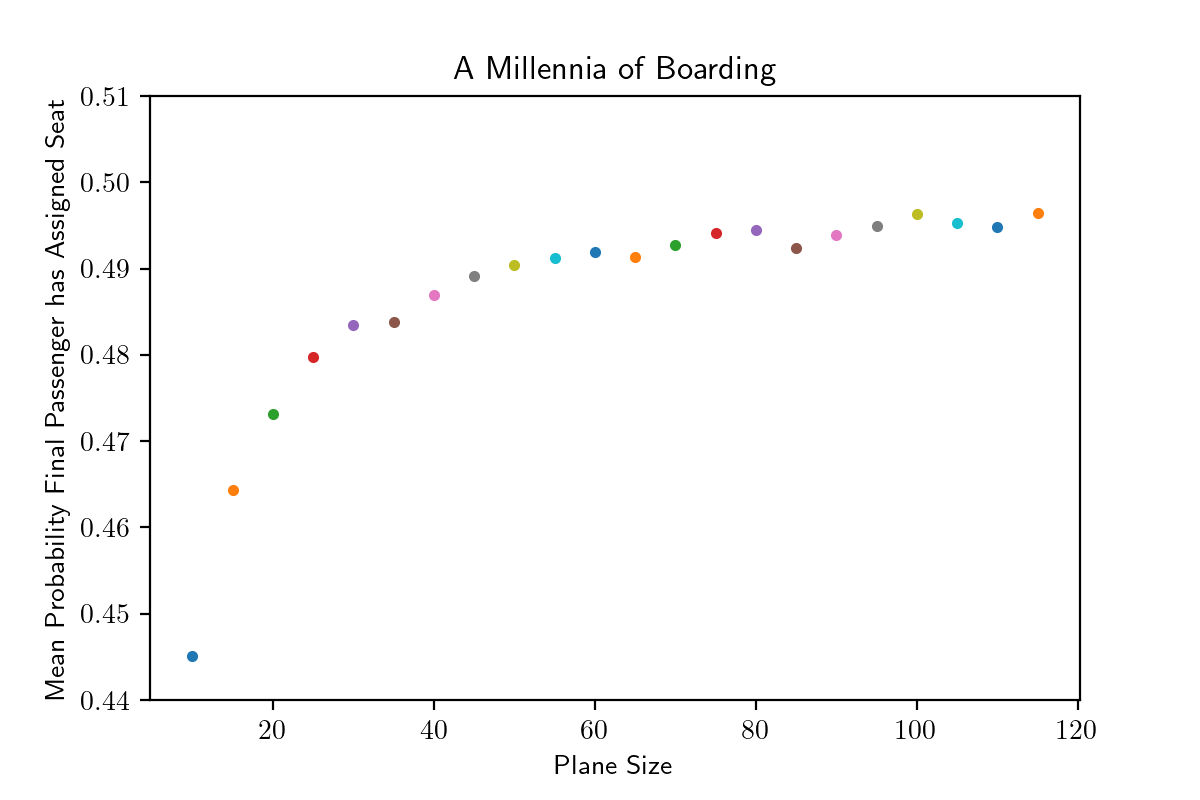
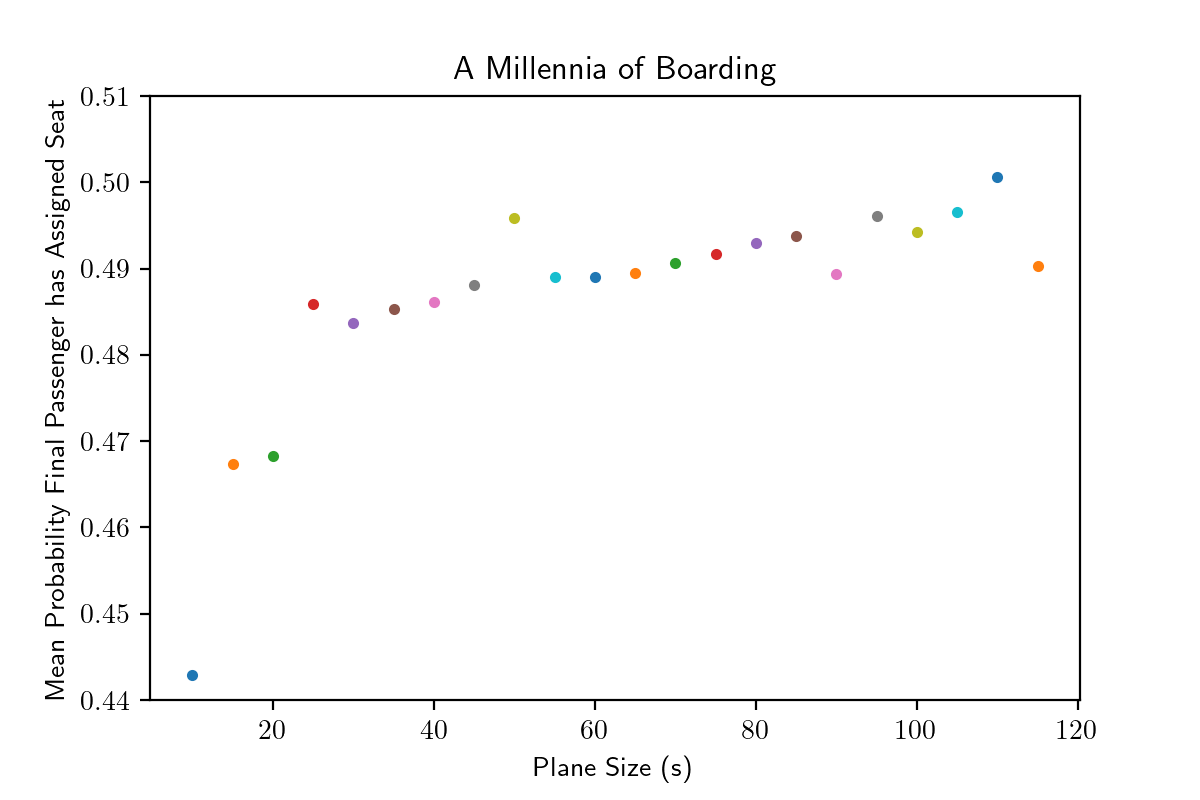
analysis

diff --git a/_posts/2020-04-03-bessel-function-animation.md b/_posts/2020-04-03-bessel-function-animation.md
@@ -4,14 +4,59 @@ title: "Bessel Function Animation"
 categories: misc
 ---
 
+Bessel’s differential equation is given by:
 
-$$\LaTeX code$$ 
+<img src="https://latex.codecogs.com/svg.latex?x^2&space;\frac{d^2y}{dx^2}&space;&plus;&space;x&space;\frac{dy}{dx}&space;&plus;&space;(x^2&space;-&space;n^2)y&space;=&space;0" title="x^2 \frac{d^2y}{dx^2} + x \frac{dy}{dx} + (x^2 - n^2)y = 0" />
 
-$$
-{-\infty}^{\infty}
-$$
+It is a 2-dimensional wave equation, having many applications in physics including the notable examples: 
 
+- describing electromagnetic waves in a cylindrical wave-guide
+- solving the radial Schrodinger Equation for a free particle
+- modes of vibration on a circular drum. 
+
+For integer <img src="https://latex.codecogs.com/svg.latex?\inline&space;n" title="n" /> it has the series solution:
+
+<img src="https://latex.codecogs.com/svg.latex?J_n(x)&space;=&space;\sum_{l=0}^{N}&space;\frac{(-1)^l}{2^{2l&plus;n}&space;l!&space;(n&plus;l)!}&space;x^{2l&plus;n}" title="J_n(x) = \sum_{l=0}^{N} \frac{(-1)^l}{2^{2l+n} l! (n+l)!} x^{2l+n}" />
+
+as <img src="https://latex.codecogs.com/svg.latex?\inline&space;N&space;\rightarrow&space;\infty" title="N \rightarrow \infty" />
+
+We can use python to approximate <img src="https://latex.codecogs.com/svg.latex?\inline&space;J_n(x)" title="J_n(x)" /> using increasingly large <img src="https://latex.codecogs.com/svg.latex?\inline&space;N" title="N" />. 
+
+The function could look something like this;
+
+```python
+def bessj(n, x, N):
+    partial_sum = 0
+    
+    from math import factorial 
+    for l in range(N+1):
+        partial_sum += (-1)**l/(2**(2*l+n)*factorial(l)*factorial(n+l))*x**(2*l+n)
+    
+    return partial_sum
+``` 
+
+We could then plot the bessel function approximation for larger values of <img src="https://latex.codecogs.com/svg.latex?\inline&space;N" title="N" />. We'll also plot <img src="https://latex.codecogs.com/svg.latex?\inline&space;J_1(x),&space;J_2(x),&space;J_3(x),&space;J_4(x),&space;J_5(x),&space;J_6(x)" title="J_1(x), J_2(x), J_3(x), J_4(x), J_5(x), J_6(x)" />.
+
+```python
+import numpy as np
+import matplotlib.pyplot as plt
+
+def bessel_plotter(N):
+    plt.xlabel("x")
+    plt.ylabel("J_n(x)")
+    plt.title(f"Bessel Function Types (Order {N})")
+    x_domain = np.linspace(0, 15, 1000)
+    
+    for kind in [1, 2, 3, 4, 5, 6]:
+        plt.plot(x_domain, bessj(kind, x_domain, N), label = f'n = {kind}')
+
+    return plt.legend()
+```
+
+With abit of matplotlib magic we can animate this process:
 
 <video width="800" height="428" controls>
 	  <source src="{{ site.baseurl }}/jupyter/bessel.mp4" type="video/mp4">
 </video> 
+
+Beautiful!

diff --git a/_posts/2020-04-08-airplane-boarding-simulation.md b/_posts/2020-04-08-airplane-boarding-simulation.md
@@ -231,4 +231,20 @@ Running the same code that was used to produce the last plot gives
 
 ![]({{ site.baseurl }}/jupyter/meanprobvsplanesize-manyplanes-trulyrandom.png)
 
-Probabilities seem to cluster around 0.5 independently of the plane size.
+Probabilities seem to cluster around 0.5 independently of the plane size. This is an (intriguing, however) well known result that has been explored elsewhere. It is reassuring that our simulations reflect mathematics!
+
+Here we will explore the first situation and see if we can predict the simulation's results analytically.
+
+It is not obvious, but can be shown that the probability mass function for this situation is
+
+<img src="https://latex.codecogs.com/svg.latex?p_S(s)=\frac{s-1}{2(s-1)}&space;\textrm{&space;for&space;}&space;s&space;\in&space;\{n&space;\in&space;N:n>1\}" title="p_S(s)=\frac{s-1}{2(s-1)} \textrm{ for } s \in \{n \in N:n>1\}" />
+
+where <img src="https://latex.codecogs.com/svg.latex?\inline&space;s" title="s" /> is the plane size.
+
+Plotting <img src="https://latex.codecogs.com/svg.latex?\inline&space;p_S(s)" title="p_S(s)" /> ontop of our simulated data we find excellent agreement. 
+
+
+![]({{ site.baseurl }}/jupyter/meanprobvsplanesize-manyplanes-analytic.png)
+
+
+
